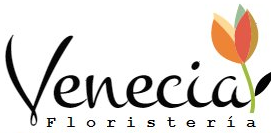
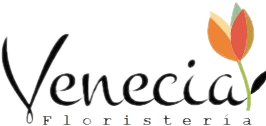
Update 3.3

diff --git a/pages/florisueños.html b/pages/florisueños.html
@@ -11,7 +11,7 @@
     <section>
         <nav class="nav">
             <a class="link" href="florisueños.html">Catalogo</a>
-            <a href="../index.html"><img src="../img/FLORISUEÑOS/florisueños.jpg"  class="logo" /></a>
+            <a href="../index.html"><img src="../img/FLORISUEÑOS/florisueños1.png"  class="logo" /></a>
             <a class="link" href="">Contactos</a>
         </nav>
     </section>

diff --git a/pages/venecia.html b/pages/venecia.html
@@ -11,7 +11,7 @@
     <section>
         <nav class="nav">
             <a class="link" href="venecia.html">Catalogo</a>
-            <a href="../index.html"><img src="../img/VENECIA/venecia.jpg"  class="logo" /></a>
+            <a href="../index.html"><img src="../img/VENECIA/venecia.png"  class="logo" /></a>
             <a class="link" href="">Contactos</a>
         </nav>
     </section>
